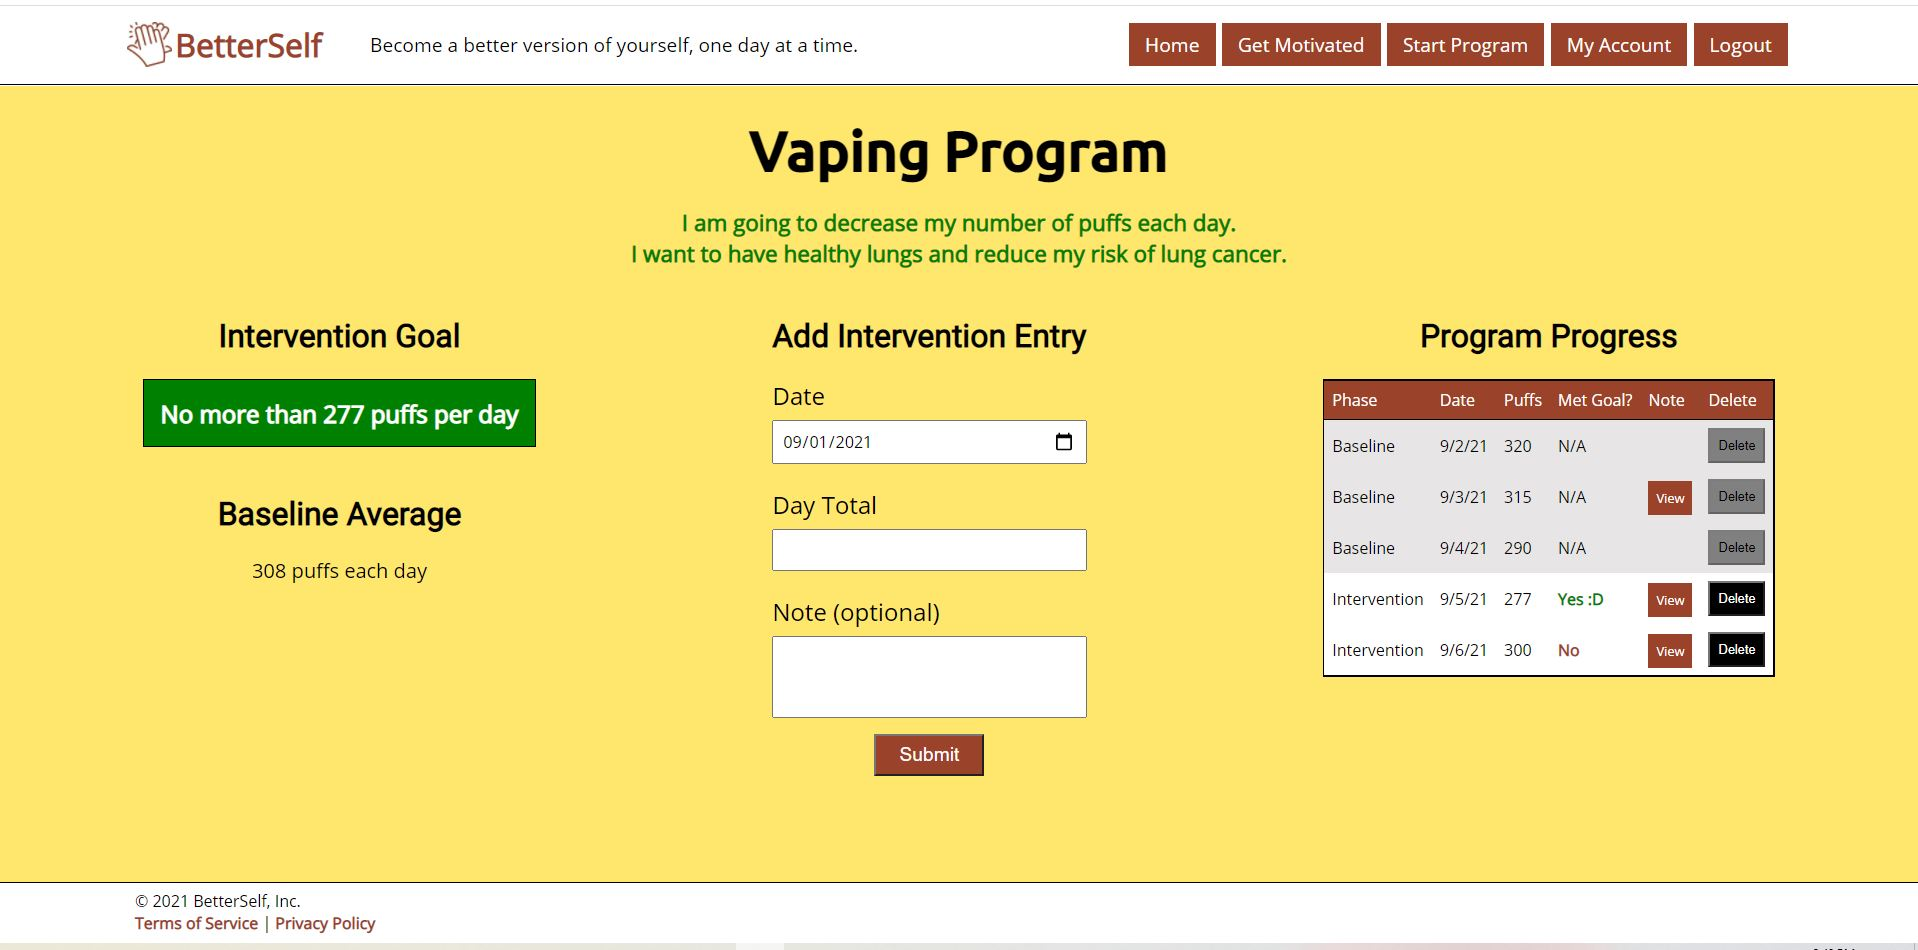
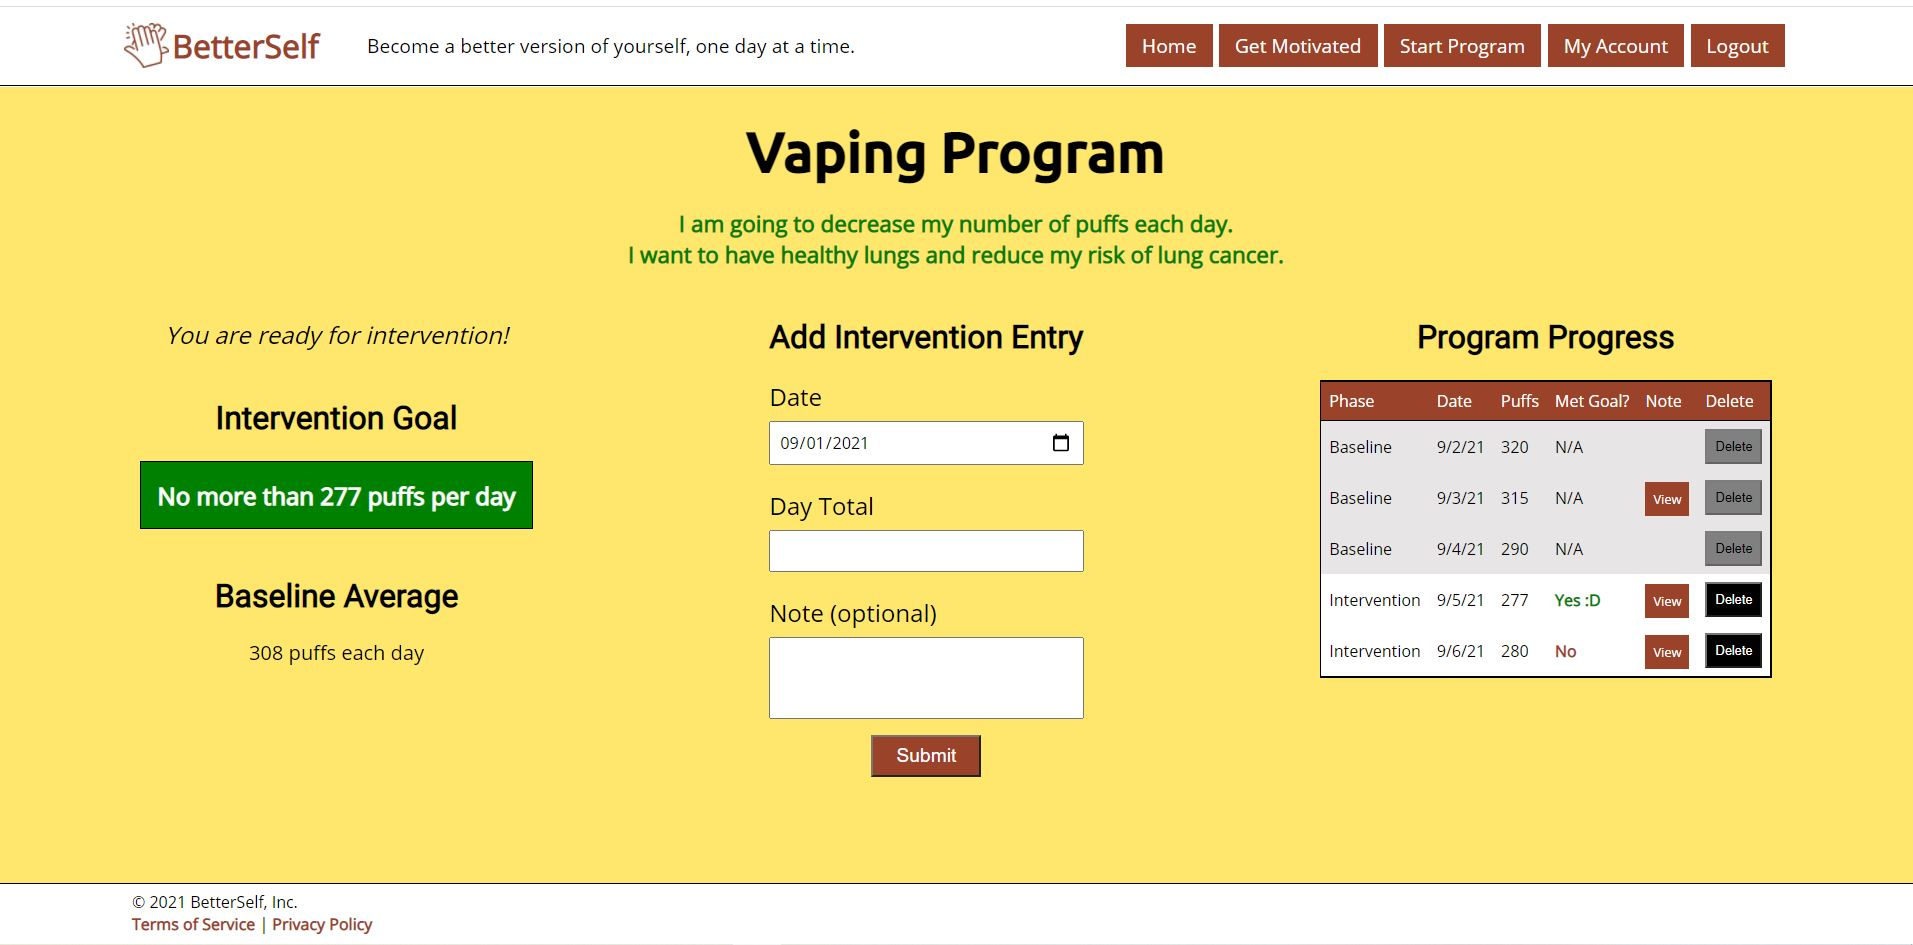
Updated README

diff --git a/better_self_app/templates/view_program.html b/better_self_app/templates/view_program.html
@@ -98,6 +98,7 @@
                 {% endif %}
                 {% if intervention_ready == True %}
                 <div id="baseline_info">
+                    <p>You are ready for intervention!</p>
                     <div id="goal">
                         <h2>Intervention Goal</h2>
                         <p>{{goal_statement}}</p>

diff --git a/better_self_app/static/css/view_program.css b/better_self_app/static/css/view_program.css
@@ -152,3 +152,16 @@ span{
 #no{
     color:var(--maroon);
 }
+
+#baseline_info p{
+    text-align:center;
+}
+
+#baseline_info > p{
+    font-style: italic;
+    font-size:1.5rem;
+}
+
+#baseline_info > p{
+    padding-bottom:3rem;
+}
